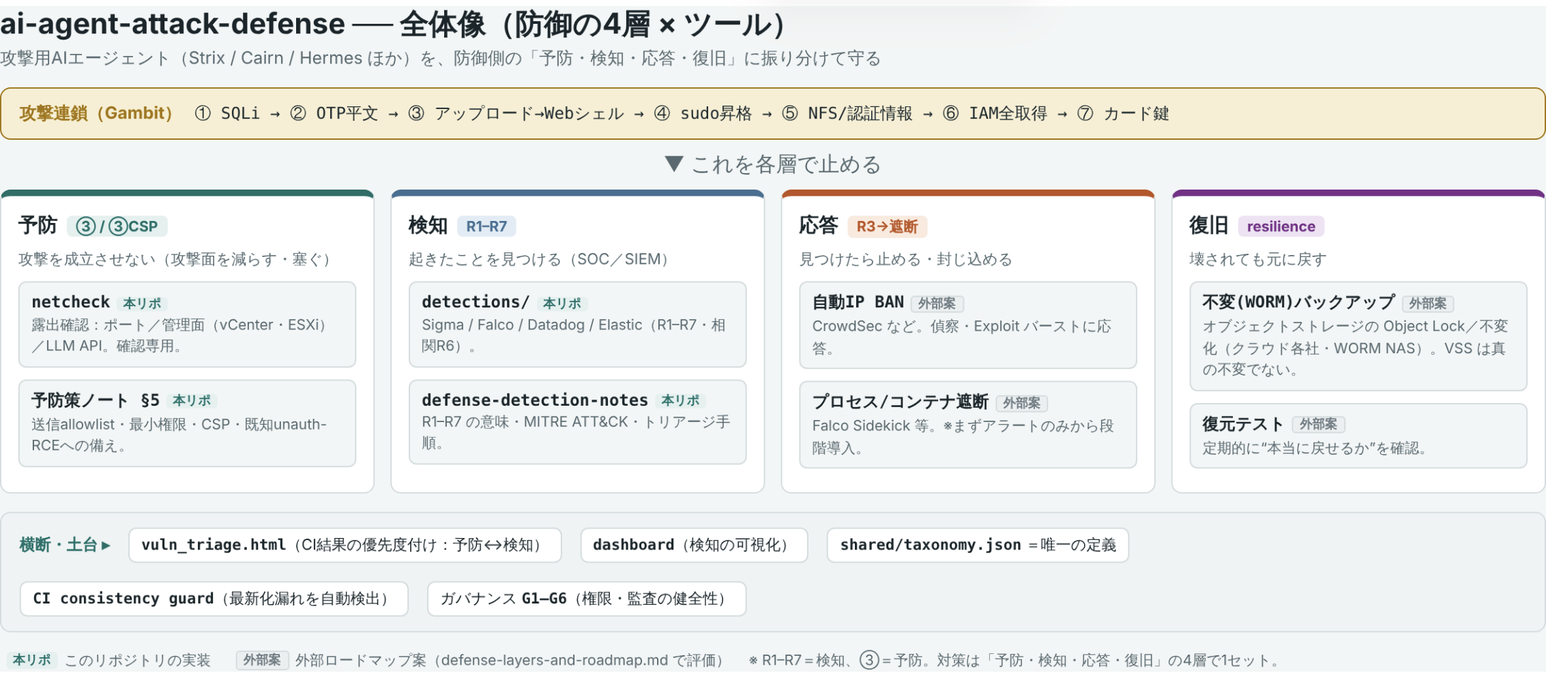
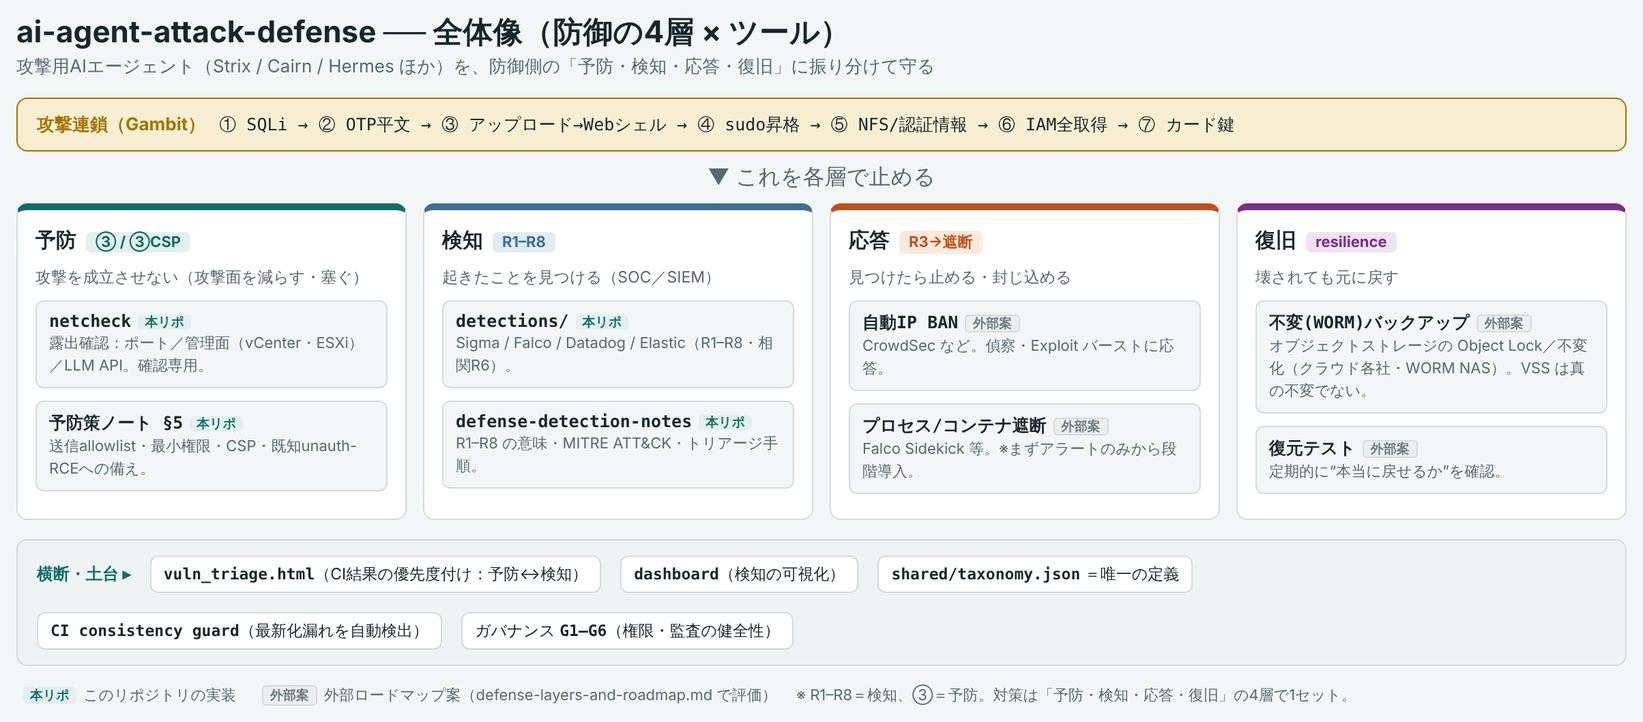
docs: 検知ルールの表記を R1–R7 から R1–R8 に更新（図・ダッシュボード・READMEなど）
R8（Web シェルの設置・シェル起動）を追加したため、全体の表記を揃えた。
ダッシュボードとグロッサリーに R8 の行を追加し、全体像の図を再生成した。
系統図・ARTEX 解析・サンドボックス解説・CVP 関連・Zenn 下書きは、作成時点の
内容を表すため R1–R7 のまま残している。

Claude-Session: https://claude.ai/code/session_017PiiPbfWPjiaquesxgPQkR

diff --git a/security-scan/dashboard-local-llm.html b/security-scan/dashboard-local-llm.html
@@ -118,7 +118,7 @@ details.cfgwrap summary{cursor:pointer;font-size:13px;color:var(--ink2)}
 <!-- ASK (自前LLM) -->
 <section id="ask">
   <h2>💬 AIに質問（自前LLM） <span class="en">Your own LLM</span></h2>
-  <p class="note">この防御データ（マップ・検知R1–R7・ガバナンスG1–G6・予防）を文脈に、<b>あなたの LLM</b> が回答します。claude.ai のクオータは使いません。OpenAI 互換エンドポイント（ローカルの Ollama / LM Studio / vLLM、または OpenRouter 等）に対応。</p>
+  <p class="note">この防御データ（マップ・検知R1–R8・ガバナンスG1–G6・予防）を文脈に、<b>あなたの LLM</b> が回答します。claude.ai のクオータは使いません。OpenAI 互換エンドポイント（ローカルの Ollama / LM Studio / vLLM、または OpenRouter 等）に対応。</p>
   <details class="cfgwrap">
     <summary>⚙ 接続設定（初回だけ入力。ブラウザに保存されます）</summary>
     <div class="cfg">
@@ -201,7 +201,7 @@ details.cfgwrap summary{cursor:pointer;font-size:13px;color:var(--ink2)}
 <!-- ② COVERAGE -->
 <section id="cov">
   <h2>② 検知カバレッジ マトリクス <span class="en">Detection coverage</span></h2>
-  <p class="note">タイプ別チップを押すと、その型に効く検知行がハイライトされます。検知の土台は共通（LLM推論・スキャン・ツール実行・C2）なので R1–R7 が横展開で効きます。</p>
+  <p class="note">タイプ別チップを押すと、その型に効く検知行がハイライトされます。検知の土台は共通（LLM推論・スキャン・ツール実行・C2）なので R1–R8 が横展開で効きます。</p>
   <div class="tools" style="margin-bottom:10px">
     <span class="chip" style="border-color:var(--c1);cursor:pointer" data-type="t1">① 分業チェーン</span>
     <span class="chip" style="border-color:var(--c2);cursor:pointer" data-type="t4">④ E2E</span>
@@ -230,6 +230,8 @@ details.cfgwrap summary{cursor:pointer;font-size:13px;color:var(--ink2)}
         <td class="c yes">●</td><td class="c yes">●</td><td class="c yes">●</td><td class="c part">○</td></tr>
       <tr data-t="t1 t4 t5 t6"><td>R6</td><td>相関（R3＋R1＋(R2 or R7)＋任意R4/R5）</td><td>SIEM 相関</td><td><span class="pri sev-high">高</span></td>
         <td class="c yes">●</td><td class="c yes">●</td><td class="c yes">●</td><td class="c part">○</td></tr>
+      <tr data-t="t1"><td>R8</td><td>Web シェルの設置（Web ルート配下の JSP/WAR/PHP 等）と、Web サーバーからのシェル起動<br><span class="cap">JPCERT/CC 注意喚起（2026-10）のケース D。Sigma / Falco のみ</span></td><td>file event / process (auditd, Falco)</td><td><span class="pri sev-high">高</span></td>
+        <td class="c yes">●</td><td class="c no">—</td><td class="c no">—</td><td class="c no">—</td></tr>
     </tbody>
   </table>
   </div>
@@ -258,7 +260,7 @@ details.cfgwrap summary{cursor:pointer;font-size:13px;color:var(--ink2)}
 <!-- ④ SKILLS & GOVERNANCE -->
 <section id="gov">
   <h2>④ スキル機構とガバナンス <span class="en">Skills & governance / T1562</span></h2>
-  <p class="note">ネットワーク/ホストの検知(R1–R7)では捕まえにくい「エージェント/LLM の使い方そのもの」を統制・監査する層。MITRE <b>T1562（防御の無効化）</b>に対応。</p>
+  <p class="note">ネットワーク/ホストの検知(R1–R8)では捕まえにくい「エージェント/LLM の使い方そのもの」を統制・監査する層。MITRE <b>T1562（防御の無効化）</b>に対応。</p>
   <div class="grid c2">
     <div class="card"><h3>スキルとは／なぜ危険か</h3>
       <p class="cap" style="line-height:1.6">スキル＝エージェントに後付けする「指示＋ツール権限＋ワークフロー」の束。Hermes は自己改善ループで自動生成・改良する。危険なのは、スキル内容を<b>“信頼された上位の指示＋権限”として取り込む</b>点。Gambit の事例では本体コードを変えず、攻撃用スキル(121中78が攻撃目的)＋<b>自身の安全フィルタを外すスキル</b>を上乗せしただけで司令塔化した。実質「信頼された指示＋権限を外部注入する口」＝<b>サプライチェーン＋プロンプトインジェクション</b>の二重の攻撃面。</p>
@@ -275,7 +277,7 @@ details.cfgwrap summary{cursor:pointer;font-size:13px;color:var(--ink2)}
     </div>
   </div>
   <h3 style="margin:14px 0 2px;font-size:14px">監査イベント G1–G6（ガバナンス層）</h3>
-  <p class="note">ネットワーク/ホストの R1–R7 とは観測点が異なり、<b>アプリ/監査ログ層</b>（エージェント監査ログ・スキルレジストリ・LLM/ツールゲートウェイ・ログ基盤）で見る。</p>
+  <p class="note">ネットワーク/ホストの R1–R8 とは観測点が異なり、<b>アプリ/監査ログ層</b>（エージェント監査ログ・スキルレジストリ・LLM/ツールゲートウェイ・ログ基盤）で見る。</p>
   <div class="sc"><table><thead>
     <tr><th>ID</th><th>監査イベント</th><th>データソース</th><th>優先度</th><th>対応</th></tr>
   </thead><tbody>
@@ -310,7 +312,7 @@ details.cfgwrap summary{cursor:pointer;font-size:13px;color:var(--ink2)}
       <li><code>.github/workflows/security-scan.yml</code> — CI（Semgrep/Trivy/gitleaks）</li>
     </ul></div>
     <div class="card"><h3>解析・設計</h3><ul class="tight">
-      <li><code>defense-detection-notes.md</code> — 防御・検知ノート（R1–R7）</li>
+      <li><code>defense-detection-notes.md</code> — 防御・検知ノート（R1–R8）</li>
       <li><code>detections/</code> — Sigma / Falco / Datadog ルール</li>
       <li><code>strix-local-backend-notes.md</code> + <code>strix-local-poc/</code></li>
       <li><code>cairn-lab/</code> — 認可ラボ・ランブック＋実設定</li>
@@ -362,13 +364,13 @@ details.cfgwrap summary{cursor:pointer;font-size:13px;color:var(--ink2)}
     "あなたはAI攻撃エージェントに対する防御/検知の専門アシスタント。日本語で簡潔に、検知・防御の観点のみ回答する。",
     "攻撃の実行手順・エクスプロイト・安全機構の回避方法は提供しない（防御目的に限定）。",
     "【攻撃エージェント類型】①分業チェーン(Hermes統括/Strix偵察/Cairn侵入, Gambitの事例) ④E2E自律(PentAGI, Villager[悪用], ARTEX[疑い], NeuroSploit, PentestAgent, Pentest-Swarm, Decepticon, Shannon, hackingBuddyGPT) ⑤攻撃基盤(HexStrike[悪用,MCP150+ツール], CAI, TARS) ⑥対話型(PentestGPT, Pentest Copilot)。",
-    "【検知ルール】R1=サーバ系→外部LLM API egress(高,proxy/DNS)。R2=特権/NET_RAW/host net/privilegedコンテナ起動(中,container audit/Falco)。R3=管理画面パス列挙バースト4xx(中,web/WAF)。R4=サーバ→メッセージングAPI(Telegram/Discord/Slack/Signal)=C2的(高)。R5=cron/systemd永続化作成(中,host)。R6=相関(R3+R1+(R2 or R7)[+R4/R5])。R7=1親プロセスが多種セキュリティツールを短時間連続実行(高,EDR)。R7はローカルLLM利用でR1が出ない型でも残る挙動の核。",
+    "【検知ルール】R1=サーバ系→外部LLM API egress(高,proxy/DNS)。R2=特権/NET_RAW/host net/privilegedコンテナ起動(中,container audit/Falco)。R3=管理画面パス列挙バースト4xx(中,web/WAF)。R4=サーバ→メッセージングAPI(Telegram/Discord/Slack/Signal)=C2的(高)。R5=cron/systemd永続化作成(中,host)。R6=相関(R3+R1+(R2 or R7)[+R4/R5])。R7=1親プロセスが多種セキュリティツールを短時間連続実行(高,EDR)。R7はローカルLLM利用でR1が出ない型でも残る挙動の核。R8=Webシェルの設置(Webルート配下へのJSP/WAR/PHP等)とWebサーバーからのシェル起動(高,file event/process,Sigma/Falco)。",
     "【優先度】R1/R4→R2→R7→R3→R5→R6(相関)。",
     "【予防】送信ドメインallowlist / コンテナadmission control / 攻撃面最小化 / 決済ページCSP / LLM利用ガバナンス。",
     "【スキル機構】スキル=後付けの指示＋ツール権限＋ワークフロー。Hermesは自己改善ループで自動生成。危険性は“信頼された上位指示＋権限”として取り込む点。Gambitでは本体コード不変で攻撃用スキル(121中78)＋安全フィルタ除去スキルを上乗せし司令塔化。サプライチェーン＋プロンプトインジェクションの二重攻撃面。安全強制はスキル/モデルの外側に固定するのが堅牢。※攻撃スキルや除去手順は扱わない。",
     "【ガバナンス(T1562)/監査イベント】G1 スキル導入・自動生成・自己改変 G2 安全設定/ガードレール変更・無効化の試行 G3 プロンプト/ツール呼び出しに迂回意図 G4 監査ログ欠落・停止 G5 ツール権限拡大要求/付与 G6 サブエージェント大量スポーン/権限拡大。アプリ/監査ログ層で観測。",
     "【CVP】Defense(防御・個人可・数日) / Red Team(認可ペンテスト・組織のみ・数週間) / Specialized(安全重要・米政府連携)。物理被害/大規模妨害/ランサム/安全系無効化は常時ブロック。",
-    "SIEM移植(Sigma/Falco/Datadog/Elastic/Splunk等)を聞かれたら、R1–R7の意味に即した検知クエリの考え方を示し、閾値・allowlistは環境でチューニングする旨を添える。"
+    "SIEM移植(Sigma/Falco/Datadog/Elastic/Splunk等)を聞かれたら、R1–R8の意味に即した検知クエリの考え方を示し、閾値・allowlistは環境でチューニングする旨を添える。"
   ].join("\n");
   var SEEDS=["ローカルLLM型はどう検知する？","R7をSplunk SPLにするには？","優先度が高い検知トップ3は？","HexStrike系(基盤型)の防御の勘所は？","ガバナンスG1–G6の運用のコツは？"];
   var $=function(i){return document.getElementById(i);};

diff --git a/security-scan/dashboard.html b/security-scan/dashboard.html
@@ -152,7 +152,7 @@ code{font-family:ui-monospace,Menlo,Consolas,monospace;font-size:12px;background
 <!-- ② COVERAGE -->
 <section id="cov">
   <h2>② 検知カバレッジ マトリクス <span class="en">Detection coverage</span></h2>
-  <p class="note">タイプ別チップを押すと、その型に効く検知行がハイライトされます。検知の土台は共通（LLM推論・スキャン・ツール実行・C2）なので R1–R7 が横展開で効きます。</p>
+  <p class="note">タイプ別チップを押すと、その型に効く検知行がハイライトされます。検知の土台は共通（LLM推論・スキャン・ツール実行・C2）なので R1–R8 が横展開で効きます。</p>
   <div class="tools" style="margin-bottom:10px">
     <span class="chip" style="border-color:var(--c1);cursor:pointer" data-type="t1">① 分業チェーン</span>
     <span class="chip" style="border-color:var(--c2);cursor:pointer" data-type="t4">④ E2E</span>
@@ -181,6 +181,8 @@ code{font-family:ui-monospace,Menlo,Consolas,monospace;font-size:12px;background
         <td class="c yes">●</td><td class="c yes">●</td><td class="c yes">●</td><td class="c part">○</td></tr>
       <tr data-t="t1 t4 t5 t6"><td>R6</td><td>相関（R3＋R1＋(R2 or R7)＋任意R4/R5）</td><td>SIEM 相関</td><td><span class="pri sev-high">高</span></td>
         <td class="c yes">●</td><td class="c yes">●</td><td class="c yes">●</td><td class="c part">○</td></tr>
+      <tr data-t="t1"><td>R8</td><td>Web シェルの設置（Web ルート配下の JSP/WAR/PHP 等）と、Web サーバーからのシェル起動<br><span class="cap">JPCERT/CC 注意喚起（2026-10）のケース D。Sigma / Falco のみ</span></td><td>file event / process (auditd, Falco)</td><td><span class="pri sev-high">高</span></td>
+        <td class="c yes">●</td><td class="c no">—</td><td class="c no">—</td><td class="c no">—</td></tr>
     </tbody>
   </table>
   </div>
@@ -209,7 +211,7 @@ code{font-family:ui-monospace,Menlo,Consolas,monospace;font-size:12px;background
 <!-- ④ SKILLS & GOVERNANCE -->
 <section id="gov">
   <h2>④ スキル機構とガバナンス <span class="en">Skills & governance / T1562</span></h2>
-  <p class="note">ネットワーク/ホストの検知(R1–R7)では捕まえにくい「エージェント/LLM の使い方そのもの」を統制・監査する層。MITRE <b>T1562（防御の無効化）</b>に対応。</p>
+  <p class="note">ネットワーク/ホストの検知(R1–R8)では捕まえにくい「エージェント/LLM の使い方そのもの」を統制・監査する層。MITRE <b>T1562（防御の無効化）</b>に対応。</p>
   <div class="grid c2">
     <div class="card"><h3>スキルとは／なぜ危険か</h3>
       <p class="cap" style="line-height:1.6">スキル＝エージェントに後付けする「指示＋ツール権限＋ワークフロー」の束。Hermes は自己改善ループで自動生成・改良する。危険なのは、スキル内容を<b>“信頼された上位の指示＋権限”として取り込む</b>点。Gambit の事例では本体コードを変えず、攻撃用スキル(121中78が攻撃目的)＋<b>自身の安全フィルタを外すスキル</b>を上乗せしただけで司令塔化した。実質「信頼された指示＋権限を外部注入する口」＝<b>サプライチェーン＋プロンプトインジェクション</b>の二重の攻撃面。</p>
@@ -226,7 +228,7 @@ code{font-family:ui-monospace,Menlo,Consolas,monospace;font-size:12px;background
     </div>
   </div>
   <h3 style="margin:14px 0 2px;font-size:14px">監査イベント G1–G6（ガバナンス層）</h3>
-  <p class="note">ネットワーク/ホストの R1–R7 とは観測点が異なり、<b>アプリ/監査ログ層</b>（エージェント監査ログ・スキルレジストリ・LLM/ツールゲートウェイ・ログ基盤）で見る。</p>
+  <p class="note">ネットワーク/ホストの R1–R8 とは観測点が異なり、<b>アプリ/監査ログ層</b>（エージェント監査ログ・スキルレジストリ・LLM/ツールゲートウェイ・ログ基盤）で見る。</p>
   <div class="sc"><table><thead>
     <tr><th>ID</th><th>監査イベント</th><th>データソース</th><th>優先度</th><th>対応</th></tr>
   </thead><tbody>
@@ -261,7 +263,7 @@ code{font-family:ui-monospace,Menlo,Consolas,monospace;font-size:12px;background
       <li><code>.github/workflows/security-scan.yml</code> — CI（Semgrep/Trivy/gitleaks）</li>
     </ul></div>
     <div class="card"><h3>解析・設計</h3><ul class="tight">
-      <li><code>defense-detection-notes.md</code> — 防御・検知ノート（R1–R7）</li>
+      <li><code>defense-detection-notes.md</code> — 防御・検知ノート（R1–R8）</li>
       <li><code>detections/</code> — Sigma / Falco / Datadog ルール</li>
       <li><code>strix-local-backend-notes.md</code> + <code>strix-local-poc/</code></li>
       <li><code>cairn-lab/</code> — 認可ラボ・ランブック＋実設定</li>

diff --git a/overview-figure.html b/overview-figure.html
@@ -65,12 +65,12 @@ h1 small{font-size:13px;color:var(--mu);font-weight:400;display:block;margin-top
     </div>
 
     <div class="card det">
-      <h2>検知 <span class="tag t-det">R1–R7</span></h2>
+      <h2>検知 <span class="tag t-det">R1–R8</span></h2>
       <div class="sub">起きたことを見つける（SOC／SIEM）</div>
       <div class="item"><div class="nm">detections/<span class="pill repo">本リポ</span></div>
-        <div class="ds">Sigma / Falco / Datadog / Elastic（R1–R7・相関R6）。</div></div>
+        <div class="ds">Sigma / Falco / Datadog / Elastic（R1–R8・相関R6）。</div></div>
       <div class="item"><div class="nm">defense-detection-notes<span class="pill repo">本リポ</span></div>
-        <div class="ds">R1–R7 の意味・MITRE ATT&CK・トリアージ手順。</div></div>
+        <div class="ds">R1–R8 の意味・MITRE ATT&CK・トリアージ手順。</div></div>
     </div>
 
     <div class="card resp">
@@ -104,7 +104,7 @@ h1 small{font-size:13px;color:var(--mu);font-weight:400;display:block;margin-top
   <div class="legend">
     <span><span class="pill repo">本リポ</span> このリポジトリの実装</span>
     <span><span class="pill ext">外部案</span> 外部ロードマップ案（defense-layers-and-roadmap.md で評価）</span>
-    <span class="note">※ R1–R7＝検知、③＝予防。対策は「予防・検知・応答・復旧」の4層で1セット。</span>
+    <span class="note">※ R1–R8＝検知、③＝予防。対策は「予防・検知・応答・復旧」の4層で1セット。</span>
   </div>
 
 </div></body></html>

diff --git a/vuln_triage.html b/vuln_triage.html
@@ -110,7 +110,7 @@ details.cfgwrap summary::-webkit-details-marker{display:revert}
 <div class="wrap">
   <header>
     <h1>脆弱性トリアージ</h1>
-    <p class="lead">Semgrep、Trivy、gitleaks、SARIF、netcheck、zgrab2 の結果(JSON / JSON Lines)を貼ると、優先度順に並べて、直し方と、今回の攻撃連鎖・検知防御タグ(R1–R7 / ③)との関係を表示します。</p>
+    <p class="lead">Semgrep、Trivy、gitleaks、SARIF、netcheck、zgrab2 の結果(JSON / JSON Lines)を貼ると、優先度順に並べて、直し方と、今回の攻撃連鎖・検知防御タグ(R1–R8 / ③)との関係を表示します。</p>
   </header>
 
   <section aria-labelledby="h-in">

diff --git a/netcheck/netcheck.py b/netcheck/netcheck.py
@@ -106,7 +106,7 @@ RISKY = {
     9443: ("medium", "vSphere 管理 UI(9443)が開いている", "仮想基盤の管理 UI/プラグイン面が外から届く状態です(偵察の標的)。", "管理ネットワーク/VPN 内に限定し、最新パッチを適用する。"),
 }
 
-# ポート→関連する検知/防御の参照(R1–R7 / ③予防)。netcheck は“露出(攻撃面)”を観測し、
+# ポート→関連する検知/防御の参照(R1–R8 / ③予防)。netcheck は“露出(攻撃面)”を観測し、
 # それが防御側のどのルール/コントロールに対応するかをタグで示す。詳細は
 # security-scan/defense-detection-notes.md を参照。
 PORT_RULE = {

diff --git a/tools/check_consistency.py b/tools/check_consistency.py
@@ -128,7 +128,7 @@ def main():
                         errors.append("detections/%s: 統合ファイル内に %s の参照が見つかりません（網羅表では present）。"
                                       % (backend, tag))
 
-    # 5. R1–R7 がノート類に記載されているか -----------------------------------
+    # 5. R1–R8 がノート類に記載されているか -----------------------------------
     for doc in ("security-scan/detections/README.md", "security-scan/defense-detection-notes.md"):
         text = read(rp(*doc.split("/")))
         for tag in ("R1", "R2", "R3", "R4", "R5", "R6", "R7", "R8"):

diff --git a/scripts/summarize.py b/scripts/summarize.py
@@ -5,7 +5,7 @@
   markdown  CI の要約(既定)。ジョブサマリに貼れる Markdown。
   elastic   Elastic/ECS 向けの NDJSON(1 行 1 イベント)。Elastic に取り込める。
   datadog   Datadog Logs 向けの JSON 配列。Datadog に取り込める。
-            → CI のスキャン結果を、検知ルール(R1–R7)が載る SIEM 側へ流すための出力。
+            → CI のスキャン結果を、検知ルール(R1–R8)が載る SIEM 側へ流すための出力。
 
 使い方:
   python3 scripts/summarize.py results                        # 要約だけ(失敗させない)

diff --git a/README.md b/README.md
@@ -1,7 +1,7 @@
 <!--
 Suggested GitHub "About" (set in the repo page → About ⚙):
   Defensive detection pack for autonomous AI-agent attacks — exposure checks,
-  triage, and detection rules (R1–R7) mapped to MITRE ATT&CK. Authorized use only.
+  triage, and detection rules (R1–R8) mapped to MITRE ATT&CK. Authorized use only.
 Suggested Topics:
   defensive-security detection-engineering ai-security blue-team threat-detection
   sigma falco siem llm-security security-tools
@@ -9,7 +9,7 @@ Suggested Topics:
 
 # ai-agent-attack-defense
 
-**An open, defensive detection pack for autonomous AI-agent attacks** — exposure checks, triage, and detection rules (**R1–R7**) mapped to **MITRE ATT&CK / ATLAS** and **OWASP Top 10 for LLM**, organized as *prevent → detect → respond → recover*. Detection/defense design only.
+**An open, defensive detection pack for autonomous AI-agent attacks** — exposure checks, triage, and detection rules (**R1–R8**) mapped to **MITRE ATT&CK / ATLAS** and **OWASP Top 10 for LLM**, organized as *prevent → detect → respond → recover*. Detection/defense design only.
 
 > **Start here:** [Security summary](security-scan/security-summary.en.md) — what happened, what this repo provides, and what is still unverified. (日本語: [セキュリティ問題のまとめ](security-scan/security-summary.ja.md))
 
@@ -24,7 +24,7 @@ Legend: **本リポ** = implemented in this repository · **外部案** = extern
 
 ![Overview: the four defense layers (prevent / detect / respond / recover) and which tool covers each](overview-figure.png)
 
-> Big picture: countermeasures form one set across **prevent (③) → detect (R1–R7) → respond → recover**. Step-by-step defense along the attack chain: [`security-scan/defense-playbook.en.md`](security-scan/defense-playbook.en.md). See [`security-scan/defense-layers-and-roadmap.md`](security-scan/defense-layers-and-roadmap.md) for the mapping and [`security-scan/glossary.ja.md`](security-scan/glossary.ja.md) for plain-language term definitions.
+> Big picture: countermeasures form one set across **prevent (③) → detect (R1–R8) → respond → recover**. Step-by-step defense along the attack chain: [`security-scan/defense-playbook.en.md`](security-scan/defense-playbook.en.md). See [`security-scan/defense-layers-and-roadmap.md`](security-scan/defense-layers-and-roadmap.md) for the mapping and [`security-scan/glossary.ja.md`](security-scan/glossary.ja.md) for plain-language term definitions.
 
 | Path | What it is | How to test |
 |---|---|---|
@@ -40,7 +40,7 @@ Legend: **本リポ** = implemented in this repository · **外部案** = extern
    - `STAGING_URL`: a **staging** URL you own. Leave unset to skip ZAP. Never point it at production or third parties.
 3. Results: job summary and the `security-scan-results` artifact (JSON). Feed those JSON files into `vuln_triage.html`.
 4. Offline test of the summarizer: `python3 scripts/summarize.py <dir-with-json> --fail-on high`.
-5. Ship scan results to a SIEM: `--format elastic --out scan.ndjson` (ECS NDJSON) or `--format datadog --out scan.json` (Datadog Logs JSON). This feeds CI findings into the same platform where the R1–R7 detection rules live.
+5. Ship scan results to a SIEM: `--format elastic --out scan.ndjson` (ECS NDJSON) or `--format datadog --out scan.json` (Datadog Logs JSON). This feeds CI findings into the same platform where the R1–R8 detection rules live.
 
 ## Status / unverified
 - The GitHub Actions workflow runs on GitHub (scan and consistency jobs, both green on `main`). ZAP runs only when `STAGING_URL` is set.
@@ -50,7 +50,7 @@ Legend: **本リポ** = implemented in this repository · **外部案** = extern
 
 # 日本語版（概要）
 
-**自律型AIエージェント攻撃を“検知する”ためのオープンな防御パック**です。露出確認・トリアージ・検知ルール（**R1–R7**）を、**MITRE ATT&CK / ATLAS** と **OWASP Top 10 for LLM** に対応づけ、*予防→検知→応答→復旧* で整理しています。検知・防御の設計に限定。
+**自律型AIエージェント攻撃を“検知する”ためのオープンな防御パック**です。露出確認・トリアージ・検知ルール（**R1–R8**）を、**MITRE ATT&CK / ATLAS** と **OWASP Top 10 for LLM** に対応づけ、*予防→検知→応答→復旧* で整理しています。検知・防御の設計に限定。
 
 Gambit Security レポート（2026-09-22）の、オンライン小売を狙った AI エージェント攻撃（Strix / Cairn / Hermes）を題材にした、**学習教材と小さな防御ツール**の集まりです。
 **自分が所有している、または許可を得た対象にのみ使用してください。**
@@ -65,7 +65,7 @@ Gambit Security レポート（2026-09-22）の、オンライン小売を狙っ
 
 ![全体像：防御の4層（予防・検知・応答・復旧）と、どのツールがどこを担うか](overview-figure.png)
 
-> 全体像：対策は「**予防(③) → 検知(R1–R7) → 応答 → 復旧**」の4層で1セットです。攻撃連鎖の段ごとの防御は [`security-scan/defense-playbook.ja.md`](security-scan/defense-playbook.ja.md)、各対策の対応づけは [`security-scan/defense-layers-and-roadmap.md`](security-scan/defense-layers-and-roadmap.md)、用語のやさしい解説は [`security-scan/glossary.ja.md`](security-scan/glossary.ja.md) を参照。
+> 全体像：対策は「**予防(③) → 検知(R1–R8) → 応答 → 復旧**」の4層で1セットです。攻撃連鎖の段ごとの防御は [`security-scan/defense-playbook.ja.md`](security-scan/defense-playbook.ja.md)、各対策の対応づけは [`security-scan/defense-layers-and-roadmap.md`](security-scan/defense-layers-and-roadmap.md)、用語のやさしい解説は [`security-scan/glossary.ja.md`](security-scan/glossary.ja.md) を参照。
 
 ## ツール一覧
 
@@ -89,8 +89,8 @@ Gambit Security レポート（2026-09-22）の、オンライン小売を狙っ
 AI エージェント攻撃ツール（Strix / Cairn / Hermes、および周辺の攻撃用 AI エージェント）を**防御・検知の観点で**まとめた一式です。**検知・防御の設計に限定**し、攻撃の実行手順や安全機構の回避方法は含みません。日本語の入口は [`security-scan/README.ja.md`](security-scan/README.ja.md)。
 
 - **統合ダッシュボード** `security-scan/dashboard.html` … 攻撃エージェントの俯瞰・検知カバレッジ・予防策を1枚に（オフライン完結）。
-- **防御・検知ノート** `security-scan/defense-detection-notes.md` … 偵察/侵入/統括の各段の観測点と、検知ルール R1–R7・MITRE ATT&CK 対応・トリアージ。
-- **検知ルール** `security-scan/detections/` … Sigma / Falco / Datadog の実装（R1–R7）。
+- **防御・検知ノート** `security-scan/defense-detection-notes.md` … 偵察/侵入/統括の各段の観測点と、検知ルール R1–R8・MITRE ATT&CK 対応・トリアージ。
+- **検知ルール** `security-scan/detections/` … Sigma / Falco / Datadog の実装（R1–R8）。
 - **系統図** `security-scan/lineage.md` … 起点 URL →ツール要素→検知→防御のたどり（GitHub 上で図が描画されます）。
 - **Cairn 認可ラボ** `security-scan/cairn-lab/` … 自分の隔離ラボで動かすためのランブックと設定（攻撃なし mock 検証つき）。
 - **Strix ローカル実行 PoC** `security-scan/strix-local-poc/`。

diff --git a/security-scan/README.ja.md b/security-scan/README.ja.md
@@ -14,17 +14,17 @@ Gambit Security レポート（2026-09-22）の AI エージェント攻撃（St
 
 | ファイル | 内容 |
 |---|---|
-| [`defense-detection-notes.md`](defense-detection-notes.md) | 3ツール横断の防御・検知ノート。SOC 運用レイヤー（データソース対応、検知ルール R1–R7、MITRE ATT&CK、トリアージ）と、攻撃用AIエージェントの広域マップ（§6）。 |
+| [`defense-detection-notes.md`](defense-detection-notes.md) | 3ツール横断の防御・検知ノート。SOC 運用レイヤー（データソース対応、検知ルール R1–R8、MITRE ATT&CK、トリアージ）と、攻撃用AIエージェントの広域マップ（§6）。 |
 | [`security-summary.ja.md`](security-summary.ja.md) / [`.en.md`](security-summary.en.md) | **セキュリティ問題のまとめ**。攻撃の7段と対応、既知の脆弱性、企業が取るべき対応、作ったもの、検証の状態（正直に）、次にやること。まずここから読む。 |
 | [`defense-playbook.ja.md`](defense-playbook.ja.md) / [`.en.md`](defense-playbook.en.md) | **AI エージェント攻撃 防御プレイブック**。Strix / Cairn / Hermes / ARTEX の見える動きを前提に、攻撃連鎖の7段ごとの予防・検知・応答・確認、インシデント対応、罠（ハニートークン）の設計メモ、最初の1週間、**未実装の一覧**。 |
 | [`jp-advisory-mapping.ja.md`](jp-advisory-mapping.ja.md) / [`.en.md`](jp-advisory-mapping.en.md) | **国内の注意喚起（2026年10月、JPCERT/CC・個人情報保護委員会など）と、このリポジトリの対応表**。API の不正操作、既知の脆弱性（BI ツールを含む）、管理不備、Web シェルの 4 つの型ごとに、予防・検知・足りない点を整理。二次情報に基づくので、原典で確認すること。 |
-| [`defense-layers-and-roadmap.md`](defense-layers-and-roadmap.md) | 防御の4層（予防・検知・応答・復旧）と、外部ロードマップ案の対応づけ・評価・不足分の補い方。R1–R7 と ③ の区別、カーネルFIM 解説つき。 |
+| [`defense-layers-and-roadmap.md`](defense-layers-and-roadmap.md) | 防御の4層（予防・検知・応答・復旧）と、外部ロードマップ案の対応づけ・評価・不足分の補い方。R1–R8 と ③ の区別、カーネルFIM 解説つき。 |
 | [`glossary.ja.md`](glossary.ja.md) | 用語集（やさしい日本語）。FIM / CSP / WORM / egress / C2 / RCE / IAM などを1行ずつ。新語が出たら追記する。 |
 | [`os-patch-check-notes.md`](os-patch-check-notes.md) | 自分の機器の OS 更新を確認し、SARIF で `vuln_triage` に読み込む。**Linux(RHEL系)用 `scripts/os_patch_check_linux.py`** と **Windows用 `scripts/os_patch_check_windows.py`** に分けている。確認専用。実機では未検証。 |
 | [`patch-suggest-notes.md`](patch-suggest-notes.md) | 診断結果から修正案（diff）を作る `scripts/patch_suggest.py`。自動適用はしない（人の y/N 確認つき）。gitleaks の値は LLM に送らない。小さいモデルの限界を明記。 |
 | [`zgrab2-notes.md`](zgrab2-notes.md) | zgrab2（ZMap のアプリ層スキャナ）の出力を `vuln_triage` に取り込む方法と、対象を許可範囲に絞るガード `scripts/zgrab2_guard.py`。露出の棚卸し用で、脆弱性スキャナではない。日英。 |
-| [`artex-analysis.ja.md`](artex-analysis.ja.md) / [`.en.md`](artex-analysis.en.md) | 自律型ペネトレ AI エージェント **ARTEX** の防御解析（一次情報の静的レビュー）。アーキ分解＋R1–R7/G1–G6 対応。攻撃手順は含まない。 |
-| [`detections/`](detections/) | 検知ルールの実装：Sigma / Falco / Datadog（R1–R7）。閾値・allowlist は環境でチューニング。 |
+| [`artex-analysis.ja.md`](artex-analysis.ja.md) / [`.en.md`](artex-analysis.en.md) | 自律型ペネトレ AI エージェント **ARTEX** の防御解析（一次情報の静的レビュー）。アーキ分解＋R1–R8/G1–G6 対応。攻撃手順は含まない。 |
+| [`detections/`](detections/) | 検知ルールの実装：Sigma / Falco / Datadog（R1–R8）。閾値・allowlist は環境でチューニング。 |
 | [`strix-local-backend-notes.md`](strix-local-backend-notes.md) | Strix の実行フロー解析と、Docker 不要ローカル実行の設計。 |
 | [`strix-local-poc/`](strix-local-poc/) | 上記の PoC（パッチ・検証スクリプト・結果）。 |
 | [`cairn-lab/`](cairn-lab/) | Cairn を認可済み隔離ラボで動かすランブックと実設定（`dispatch.lab.yaml` ほか）、攻撃なし mock 設定。 |

diff --git a/security-scan/README.md b/security-scan/README.md
@@ -17,17 +17,17 @@ techniques. Use only against assets you own or are authorized to test.
 
 | File | Contents |
 |---|---|
-| [`defense-detection-notes.md`](defense-detection-notes.md) (JA) / [`.en.md`](defense-detection-notes.en.md) (EN) | Cross-tool defense & detection notes: SOC operational layer (data-source mapping, detection rules R1–R7, MITRE ATT&CK, triage) and the broader offensive-AI-agent landscape. |
+| [`defense-detection-notes.md`](defense-detection-notes.md) (JA) / [`.en.md`](defense-detection-notes.en.md) (EN) | Cross-tool defense & detection notes: SOC operational layer (data-source mapping, detection rules R1–R8, MITRE ATT&CK, triage) and the broader offensive-AI-agent landscape. |
 | [`security-summary.en.md`](security-summary.en.md) (EN) / [`.ja.md`](security-summary.ja.md) (JA) | **Security summary**: the seven attack steps and their defenses, known vulnerabilities, what a company should do, what was built, verification status (honestly), and next steps. Start here. |
 | [`defense-playbook.en.md`](defense-playbook.en.md) (EN) / [`.ja.md`](defense-playbook.ja.md) (JA) | **Defense playbook for AI-agent attacks**: what Strix / Cairn / Hermes / ARTEX look like, then prevent / detect / respond / verify for each of the seven chain steps, incident flow, a honeytoken design memo, a first-week plan, and an explicit **not-implemented list**. |
 | [`jp-advisory-mapping.en.md`](jp-advisory-mapping.en.md) (EN) / [`.ja.md`](jp-advisory-mapping.ja.md) (JA) | **Mapping of the October 2026 Japanese advisories (JPCERT/CC, Personal Information Protection Commission, others) to this repository**: API abuse, known-vulnerability exploitation (including BI tools), admin misconfiguration, and web shells, with prevention, detection, and gaps for each. Based on secondary information; confirm in the primary sources. |
-| [`defense-layers-and-roadmap.md`](defense-layers-and-roadmap.md) (JA) | The four defense layers (prevent / detect / respond / recover) and how an external rollout-roadmap proposal maps onto them: assessment, cautions, and the gaps this repo fills. Clarifies R1–R7 vs ③, with a kernel-FIM primer. |
+| [`defense-layers-and-roadmap.md`](defense-layers-and-roadmap.md) (JA) | The four defense layers (prevent / detect / respond / recover) and how an external rollout-roadmap proposal maps onto them: assessment, cautions, and the gaps this repo fills. Clarifies R1–R8 vs ③, with a kernel-FIM primer. |
 | [`glossary.ja.md`](glossary.ja.md) (JA) | Plain-language glossary: FIM / CSP / WORM / egress / C2 / RCE / IAM and more, one line each. Grows as new terms come up. |
 | [`os-patch-check-notes.md`](os-patch-check-notes.md) (JA + EN summary) | Checks OS updates on a managed machine and writes SARIF for `vuln_triage`, in two scripts: `scripts/os_patch_check_linux.py` (RHEL pending advisories) and `scripts/os_patch_check_windows.py` (HotFixes; pending updates with `--windows-pending`). Check-only. Not yet run on real hosts. |
 | [`patch-suggest-notes.md`](patch-suggest-notes.md) (JA + EN summary) | `scripts/patch_suggest.py`: turns findings into proposed diffs (never auto-applies; per-file y/N confirmation). Secret values are never sent to the LLM. |
 | [`zgrab2-notes.md`](zgrab2-notes.md) (JA + EN summary) | Ingesting zgrab2 (ZMap's application-layer scanner) output into `vuln_triage`, plus `scripts/zgrab2_guard.py`, an allowlist guard in front of zgrab2. Exposure inventory, not a vulnerability scanner. |
-| [`artex-analysis.en.md`](artex-analysis.en.md) (EN) / [`.ja.md`](artex-analysis.ja.md) (JA) | Defensive analysis of the autonomous AI pentest agent **ARTEX** (static primary-source review): architecture decomposition + R1–R7/G1–G6 mapping. No attack procedures. |
-| [`detections/`](detections/) | Detection rule implementations: Sigma / Falco / Datadog (R1–R7). Tune thresholds/allowlists per environment. |
+| [`artex-analysis.en.md`](artex-analysis.en.md) (EN) / [`.ja.md`](artex-analysis.ja.md) (JA) | Defensive analysis of the autonomous AI pentest agent **ARTEX** (static primary-source review): architecture decomposition + R1–R8/G1–G6 mapping. No attack procedures. |
+| [`detections/`](detections/) | Detection rule implementations: Sigma / Falco / Datadog (R1–R8). Tune thresholds/allowlists per environment. |
 | [`strix-local-backend-notes.md`](strix-local-backend-notes.md) | Strix execution-flow analysis and a Docker-free local backend design. |
 | [`strix-local-poc/`](strix-local-poc/) | PoC for the above (patch, verification scripts, results). |
 | [`cairn-lab/`](cairn-lab/) | Runbook and real config for running Cairn in an authorized, isolated lab; plus a no-attack mock config. |

diff --git a/security-scan/glossary.ja.md b/security-scan/glossary.ja.md
@@ -12,7 +12,7 @@
 | 用語 | やさしい説明 |
 |---|---|
 | 予防（prevent） | そもそも攻撃を成立させないこと。攻撃できる入口（攻撃面）を減らす・塞ぐ。本リポの記号は **③**。 |
-| 検知（detect） | 攻撃が起きたことを見つけること。本リポの記号は **R1–R7**。 |
+| 検知（detect） | 攻撃が起きたことを見つけること。本リポの記号は **R1–R8**。 |
 | 応答（respond） | 見つけたら止める・封じ込めること（遮断・隔離）。 |
 | 復旧（recover） | 壊されても元に戻せること（バックアップ・復元）。 |
 | 攻撃面（attack surface） | 攻撃者が狙える入口の広さ。公開ポート・管理画面・古い部品などが増えると広がる。 |
@@ -77,7 +77,7 @@
 | 用語 | やさしい説明 |
 |---|---|
 | SOC | セキュリティ監視を行うチーム／部門。 |
-| SIEM | ログを集めて相関・検知する基盤（例：Elastic、Splunk）。R1–R7 のルールはここに載る。 |
+| SIEM | ログを集めて相関・検知する基盤（例：Elastic、Splunk）。R1–R8 のルールはここに載る。 |
 | EDR | 端末・サーバ上で不審な挙動を検知・対応する仕組み。 |
 | Sigma | ベンダに依存しない検知ルールの共通フォーマット。各 SIEM 用に変換して使う。 |
 | Falco | コンテナ/ホストのランタイム挙動を検知する OSS（eBPF 利用）。 |
@@ -119,9 +119,9 @@
 - 構造：**Tactics（戦術＝目的、`TA####`）** の下に **Techniques（技術＝手口、`T####`）**、さらに **Sub-technique（`T####.###`）**。
   - 例：戦術「Command and Control」の下に、技術 `T1071 Application Layer Protocol`、その下に `T1071.001 Web Protocols`。
 
-### 本リポの R1–R7 との対応（主なもの）
+### 本リポの R1–R8 との対応（主なもの）
 
-> **R1–R7 は本リポ独自の整理ラベル**（有名な標準ではない）。中身の“挙動”と MITRE ATT&CK の対応は確立済み。
+> **R1–R8 は本リポ独自の整理ラベル**（有名な標準ではない）。中身の“挙動”と MITRE ATT&CK の対応は確立済み。
 > 対外的に説明するときは、R番号だけでなく **ATT&CK の T番号を併記**すると世界共通で通じる。完全な対応表は [`defense-detection-notes.md`](defense-detection-notes.md) の §3 参照。
 
 | T番号 | 手口（ざっくり） | 戦術 | 本リポの R |
@@ -131,11 +131,12 @@
 | T1059 | Command and Scripting Interpreter（コマンド/スクリプト実行） | 実行 | R7 / R2 |
 | T1071 | Application Layer Protocol（アプリ層プロトコルでの C2） | C2 | R4 |
 | T1053 | Scheduled Task/Job（cron/timer での永続化） | 永続化 | R5 |
+| T1505.003 | Server Software Component: Web Shell（Web サーバー上への Web シェルの設置） | 永続化 | R8 |
 
 ### なぜ「併記すると強い」のか
 - **R4 だけだと本リポの人にしか通じない**が、**`T1071`** と書けば、世界中のアナリスト・製品・ドキュメントと**そのまま突き合わせられる**（共通言語）。
 - 逆に ATT&CK は「手口の辞書」であって、**具体的な検知ルールや製品ではない**（＝“何を見るべきか”の地図で、“どう書くか”は Sigma/Falco 等が担う）。
-- だから **R1–R7（具体ルール）× ATT&CK（共通分類）は役割が違い、両方あると噛み合う**。
+- だから **R1–R8（具体ルール）× ATT&CK（共通分類）は役割が違い、両方あると噛み合う**。
 
 ### 注意（過大評価しないために）
 - ATT&CK は**網羅的な正解表ではなく、観測された手口の整理**。載っていない手口もあり、1つの攻撃が複数 T に跨ることも普通。
